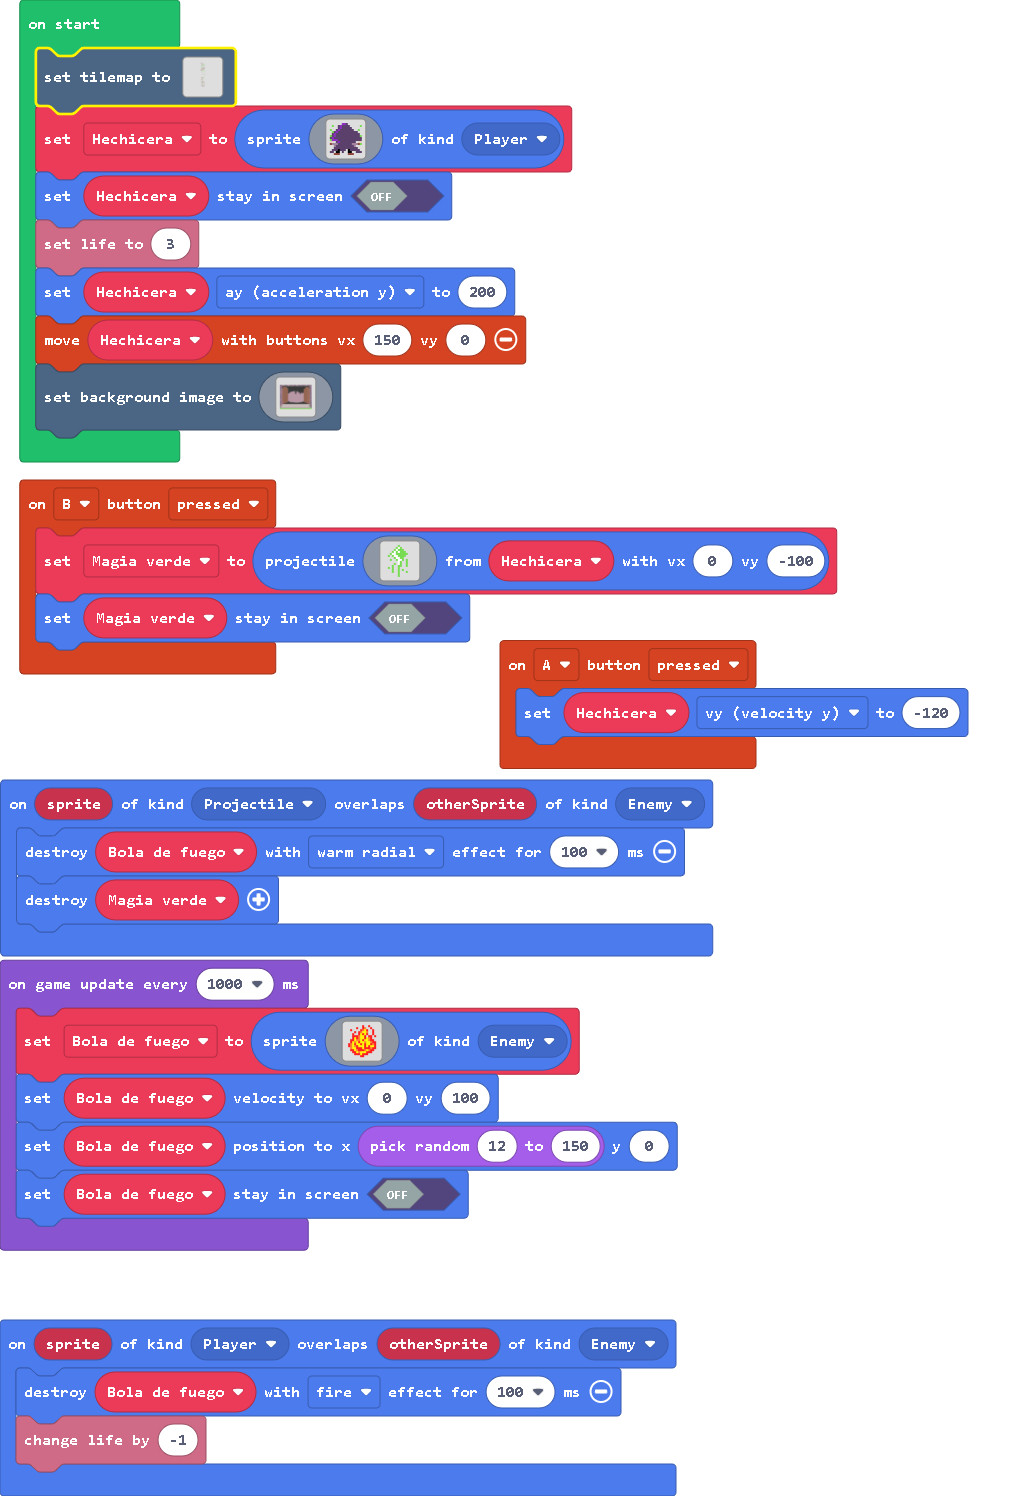
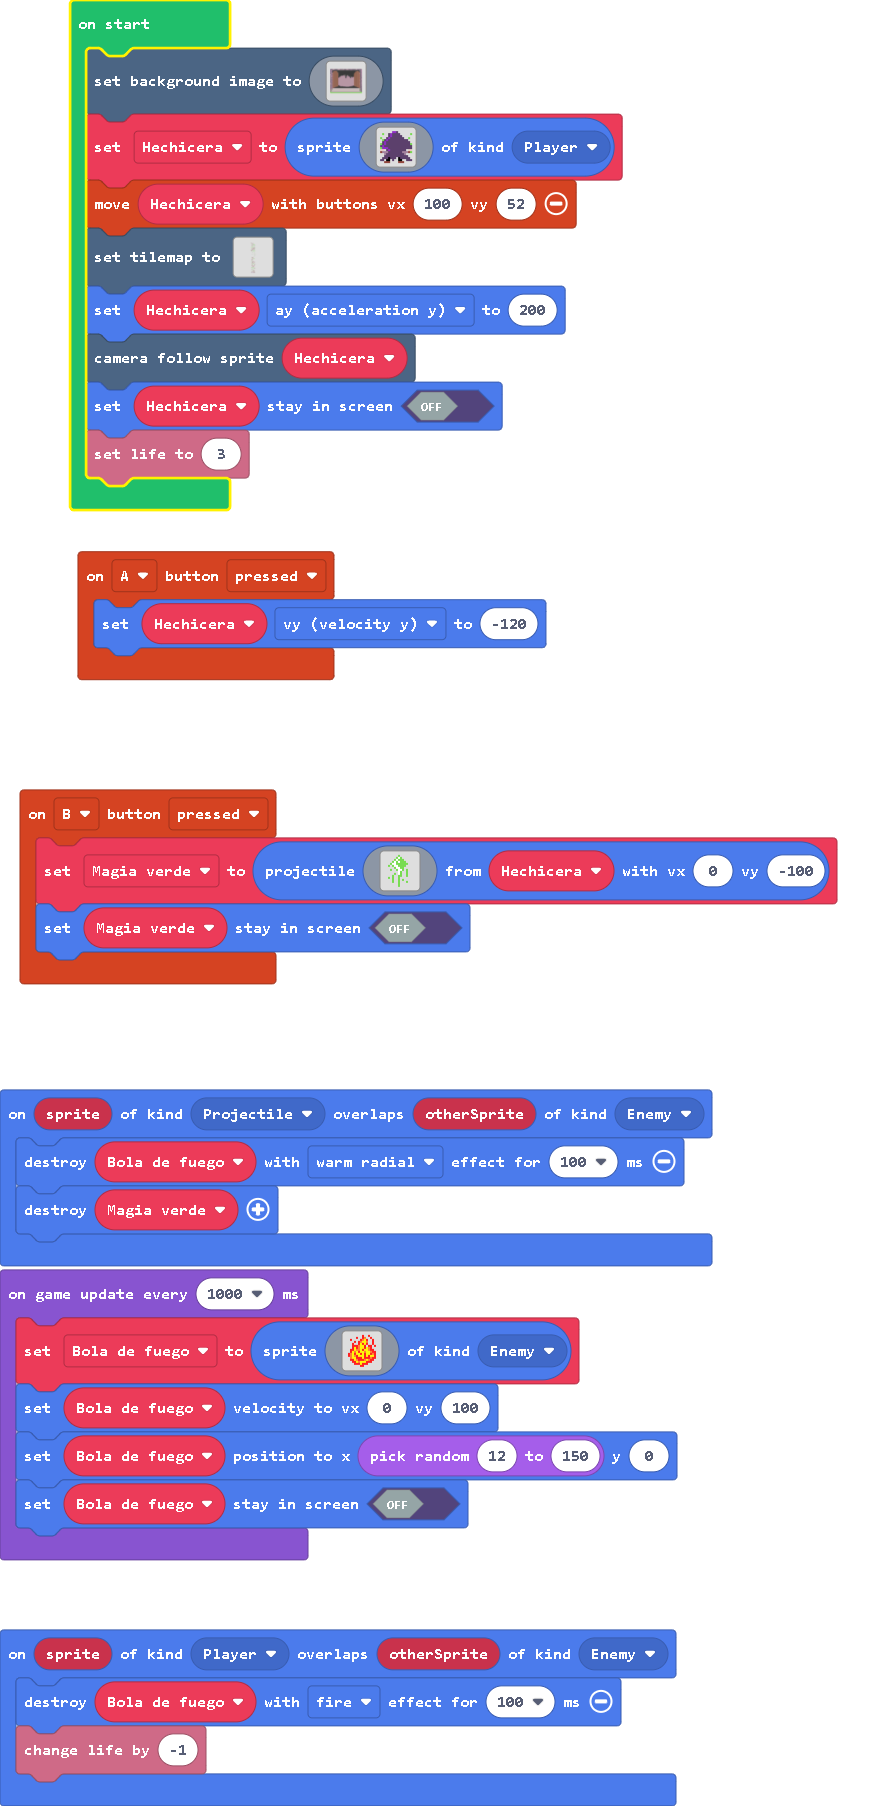
Update main.blocks, main.ts, tilemap.g.jres, tilemap.g.ts

diff --git a/tilemap.g.ts b/tilemap.g.ts
@@ -69,7 +69,7 @@ namespace myTiles {
 ................................................................
 `, [myTiles.transparency16,sprites.dungeon.greenOuterNorthWest,sprites.dungeon.greenOuterNorth0,sprites.dungeon.greenOuterNorthEast,sprites.dungeon.greenOuterEast0,sprites.dungeon.greenOuterWest1,sprites.dungeon.greenOuterEast2,sprites.dungeon.greenOuterWest2,sprites.dungeon.floorDark3,sprites.dungeon.floorDark4,sprites.castle.tilePath5,sprites.dungeon.greenOuterSouthEast,sprites.dungeon.greenOuterSouth0,sprites.dungeon.greenOuterSouthWest,sprites.dungeon.floorDark1,sprites.dungeon.floorDark0,sprites.dungeon.floorMixed,sprites.dungeon.stairNorth,sprites.castle.rock0,sprites.dungeon.hazardLava1,sprites.castle.shrub,sprites.castle.tilePath3,sprites.swamp.swampTile3,sprites.castle.tileDarkGrass2,sprites.castle.saplingPine], TileScale.Sixteen);
             case "level1":
-            case "level1":return tiles.createTilemap(hex`100080000000000000000000000000000000000000000000000000000000000000000000000000000000000000000000000000000000000000000000000000000000000000000000000000000000000000000000000000000000000000000000000000000000000000000000000000000000000000000000000000000000000000000000010101000000000002000000000000000000000000000000000000000000000000000000000000000000000000000000000000000001010100000000000000000000000000000000000000020000000000000000000000000000000000000000000200000000000304040404040405000000000000000000000000000000000000000000010101000000000000000000000000000000000000000000000200020000010000000000000200000000000000000000000000000000000000000000000000000000000000000002000000000000000000000000000000000000000000000000000000000000000000020000030404040404040405000000000000000000000000000000000000000000000000000000000000000000000000000002000000000000000000000000000000000000000000000000000001010101000000000000010101010000000000000000000200000000000000000000000000020000000000000000000000000000000000000000000000000001010101000000000000000000000000000000000000000000000101010100000000000000000000000000000000000000000200000200000000000000000002000000000000000200000000000000000000000000000001010101010000000000000000000000000000000000000000000000000000000000000000000304040404040404040500000000000000000000000000000000000000000000000000000000000000000000020000000000000000000000000000000000000000000000000000000000000000000000000000000000000000000000000000000000000000000000000000000000000002000000000000020000000000000000000000000000000000000000000000000000000000000000000000000000000000000000000000000000000000000000000000000000000000020000000000000000000000000000000000000000000000000000000000000000000000000200000000000000020000000000000000000000000000000000000000000000000000000000000000000000000000000000000000000000000000020000000000000000000000000000000000000000000000000000000000000000000000000000000000000000000000000000000000000000000000000002000000000000000000000000000000000000000000000000000002000000000000000000000000000000000000000000000000000200000000000000000000000000000000000000000000000000000000000000000101010101010000000000000000000000000000000000000000000000000000000000000000000000000000000000000000000000000000000000000000000000000000000304040404040500000000000000000000000000000000000000000001010100000000000000000000000000000000000000000000000000000000000000000000000000000000000001010000000000000000000000000000000000020000000000000000000000000000000000000000000000000000000000000000000000000000000000000000000002000000000000000000000000000000000000000000000000000000000000000000000101010000000000000000020000000000000000000000000000000000000000000000000000000000000000000000000101010000000101010000000200000000000000000000000000000000000000000000000000000000000000000001010101000000000000000000000000000000000000000000000000000000000000000000000000000000000000000000000003040404040500000000000200000000000000000000000000000000000200000000000000000000000000000000000000000000000001010100000000000002000000000000000000000000000000000000000000000000000000000000000000000000000000000000000101010100000000000000000000000000000000000000000001010100000000000000000000000000000000000000000000000000000000000000000000000000000000010101010100000000000000000000000000000000000000000000000000000000000000000000000000000000000000000000000000000000000000000000000000000000000000000000000000000000000000000000000000000000000000000000000000000000000000000000000000000000000000000000000000000000000000000000000000000000000000000000000000000000000000000000000000000000000000000000000000000000000000000000000000000000000000000000000000000000000000000000000000000000000000000000000000000000000000000000000000000000000000000000000000000000000000000000000000000000000000000000000000000000000000000000000000000000000000000000000000000000000000000000000000000000000000000000000000000000000000000000000000000000000000000000000000000000000000000000000000000000000000000000000000000000000000000000000000000000000000000000000000000000000000000000000000000000000000000000000000000000000000000000000000`, img`
+            case "level1":return tiles.createTilemap(hex`100080000000000000000000000000000000000000000000000000000000000000000000000000000000000000000000000000000000000000000000000000000000000000000000000000000000000000000000000000000000000000000000000000000000000000000000000000000000000000000000000000000000000000000000010101000000000002000000000000000000000000000000000000000000000000000000000000000000000000000000000000000001010100000000000000000000000000000000000000020000000000000000000000000000000000000000000200000000000304040404040405000000000000000000000000000000000000000000010101000000000000000000000000000000000000000000000200020000010000000000000200000000000000000000000000000000000000000000000000000000000000000002000000000000000000000000000000000000000000000000000000000000000000020000030404040404040405000000000000000000000000000000000000000000000000000000000000000000000000000002000000000000000000000000000000000000000000000000000001010101000000000000010101010000000000000000000200000000000000000000000000020000000000000000000000000000000000000000000000000001010101000000000000000000000000000000000000000000000101010100000000000000000000000000000000000000000200000200000000000000000002000000000000000200000000000000000000000000000001010101010000000000000000000000000000000000000000000000000000000000000000000304040404040404040500000000000000000000000000000000000000000000000000000000000000000000020000000000000000000000000000000000000000000000000000000000000000000000000000000000000000000000000000000000000000000000000000000000000002000000000000020000000000000000000000000000000000000000000000000000000000000000000000000000000000000000000000000000000000000000000000000000000000020000000000000000000000000000000000000000000000000000000000000000000000000200000000000000020000000000000000000000000000000000000000000000000000000000000000000000000000000000000000000000000000020000000000000000000000000000000000000000000000000000000000000000000000000000000000000000000000000000000000000000000000000002000000000000000000000000000000000000000000000000000002000000000000000000000000000000000000000000000000000200000000000000000000000000000000000000000000000000000000000000000101010101010000000000000000000000000000000000000000000000000000000000000000000000000000000000000000000000000000000000000000000000000000000304040404040500000000000000000000000000000000000000000001010100000000000000000000000000000000000000000000000000000000000000000000000000000000000001010000000000000000000000000000000000020000000000000000000000000000000000000000000000000000000000000000000000000000000000000000000002000000000000000000000000000000000000000000000000000000000000000000000101010000000000000000020000000000000000000000000000000000000000000000000000000000000000000000000101010000000101010000000200000000000000000000000000000000000000000000000000000000000000000001010101000000000000000000000000000000000000000000000000000000000000000000000000000000000000000000000003040404040500000000000200000000000000000000000000000000000200000000000000000000000000000000000000000000000001010100000000000002000000000000000000000000000000000000000000000000000000000000000000000000000000000000000101010100000000000000000000000000000000000000000001010100000000000000000000000000000000000000000000000000000000000000000000000000000000010101010100000000000000000000000000000000000000000000000000000100000000000000000000000001000000000000000000000000000000000000000000000000000000000003040404040404040404040404050000000000000000000000000000000000000000000000000000000000000000000000000000000000000000000000000101000000000000000000000000000000000000000200000200000200000200000000000000000000000000000000000000000000000000000000000000000000000002000000000000000000000000000000000000000000000000000000000000000000020000020000020000000000000000000000000000000000000000000000000000000000000000000000000000000000000000000000010101010100000000000000000000000000000000000000000000000001010100000000000000000000000000000000000000000002000001010100000000000000000000000000000000000000000000000000000000000000000000000000000101010100000000000000000000000000000000000006070808080606060808060806080808`, img`
 ................
 ................
 ................
@@ -173,32 +173,32 @@ namespace myTiles {
 ................
 ......22222.....
 ................
+.....2..........
+..2.............
+................
+22222222222222..
 ................
 ................
+..............22
+................
+...2..2..2..2...
 ................
 ................
+.2..............
+................
+...2..2..2......
 ................
 ................
+.........22222..
 ................
+......222.......
+..............2.
+.222............
 ................
+..........2222..
 ................
-................
-................
-................
-................
-................
-................
-................
-................
-................
-................
-................
-................
-................
-................
-................
-................
-`, [myTiles.transparency16,myTiles.tile1,myTiles.tile2,myTiles.tile4,myTiles.tile5,myTiles.tile6], TileScale.Sixteen);
+2222222222222222
+`, [myTiles.transparency16,myTiles.tile1,myTiles.tile2,myTiles.tile4,myTiles.tile5,myTiles.tile6,sprites.dungeon.floorDark5,sprites.dungeon.floorDarkDiamond,sprites.dungeon.floorDark4], TileScale.Sixteen);
         }
         return null;
     })

diff --git a/main.ts b/main.ts
@@ -16,12 +16,6 @@ sprites.onOverlap(SpriteKind.Player, SpriteKind.Enemy, function (sprite, otherSp
 let Bola_de_fuego: Sprite = null
 let Magia_verde: Sprite = null
 let Hechicera: Sprite = null
-tiles.setTilemap(tilemap`level1`)
-Hechicera = sprites.create(assets.image`M_Atras`, SpriteKind.Player)
-Hechicera.setStayInScreen(false)
-info.setLife(3)
-Hechicera.ay = 200
-controller.moveSprite(Hechicera, 150, 0)
 scene.setBackgroundImage(img`
     ccccccccccccccbbbbbbbbbccccccccccccccccbbbbbbbbbbbccccccccccccccccbbbbccccccccccccbbbbbbbbccccccccccccccbbbbccccccccccccccccccccccbbbbbbcccccccccccccccccccccbbb
     ccccccccccccccbbbbbbbbbccccccccccccccccbbbbbbbbbbbccccccccccccccccbbbbccccccccccccbbbbbbbbccccccccccccccccccccccccccccccccccccccccbbbbbbcccccccccccccccccccccbbb
@@ -144,6 +138,13 @@ scene.setBackgroundImage(img`
     7777777777777777777777777777777777777777777777777777777777777777777777777777777777777777777777777777777777777777777777777777777777777777777777777777777777777777
     7777777777777777777777777777777777777777777777777777777777777777777777777777777777777777777777777777777777777777777777777777777777777777777777777777777777777777
     `)
+Hechicera = sprites.create(assets.image`M_Atras`, SpriteKind.Player)
+controller.moveSprite(Hechicera, 100, 52)
+tiles.setTilemap(tilemap`level1`)
+Hechicera.ay = 200
+scene.cameraFollowSprite(Hechicera)
+Hechicera.setStayInScreen(false)
+info.setLife(3)
 game.onUpdateInterval(1000, function () {
     Bola_de_fuego = sprites.create(assets.image`Bola de fuego`, SpriteKind.Enemy)
     Bola_de_fuego.setVelocity(0, 100)
